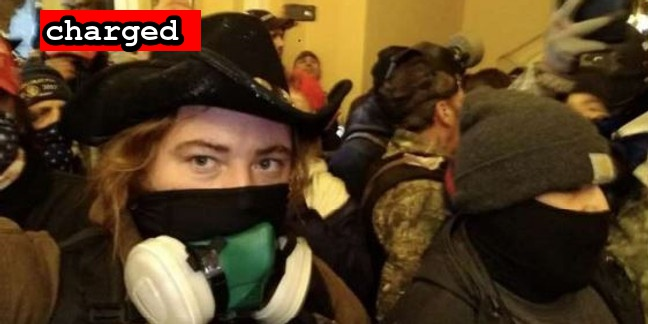
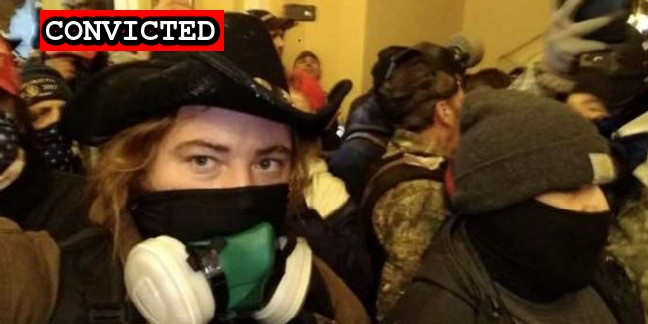
Latest conviction

Changed region(s): [[0.0617, 0.0309, 0.3704, 0.1852]]

diff --git a/docs/_suspects/andrew-hatley.md b/docs/_suspects/andrew-hatley.md
@@ -3,13 +3,13 @@ name: Andrew Hatley
 lastName: Hatley
 aka:
 residence: South Carolina
-status: Charged
+status: Convicted
 date: 2021-01-19
 charged: 2021-01-19
 indicted:
-convicted: 
-sentenced: 
-dismissed: 
+convicted: 2021-09-14
+sentenced:
+dismissed:
 deceased:
 age:
 occupation:
@@ -22,14 +22,20 @@ courtroom:
 courthouse:
 raid:
 perpwalk:
-quote: "It has come to my attention that there was someone who looks like me at the Capitol."
+quote: 'It has come to my attention that there was someone who looks like me at the Capitol.'
 title: Andrew Hatley charged on January 19th, 2021
 description: Click for latest case details. Suspects innocent until proven guilty.
 author: seditiontrack
 layout: suspect
 published: true
 caseNumber: 1:21-cr-98
+charges:
+  - code: 18 USC § 5104(e)(2)(G)
+    title: Parading, Demonstrating or Picketing in a Capitol Building
+    url: https://www.law.cornell.edu/uscode/text/40/5104
+    felony: false
 ---
+
 - [News Report](https://abcnews4.com/news/local/fbi-sc-man-suspected-of-attending-capitol-protest-taking-picture-with-calhoun-statue)
 - [Complaint](https://www.justice.gov/file/1360781/download)
 - [Statement of Facts](https://www.justice.gov/opa/page/file/1360781/download)
